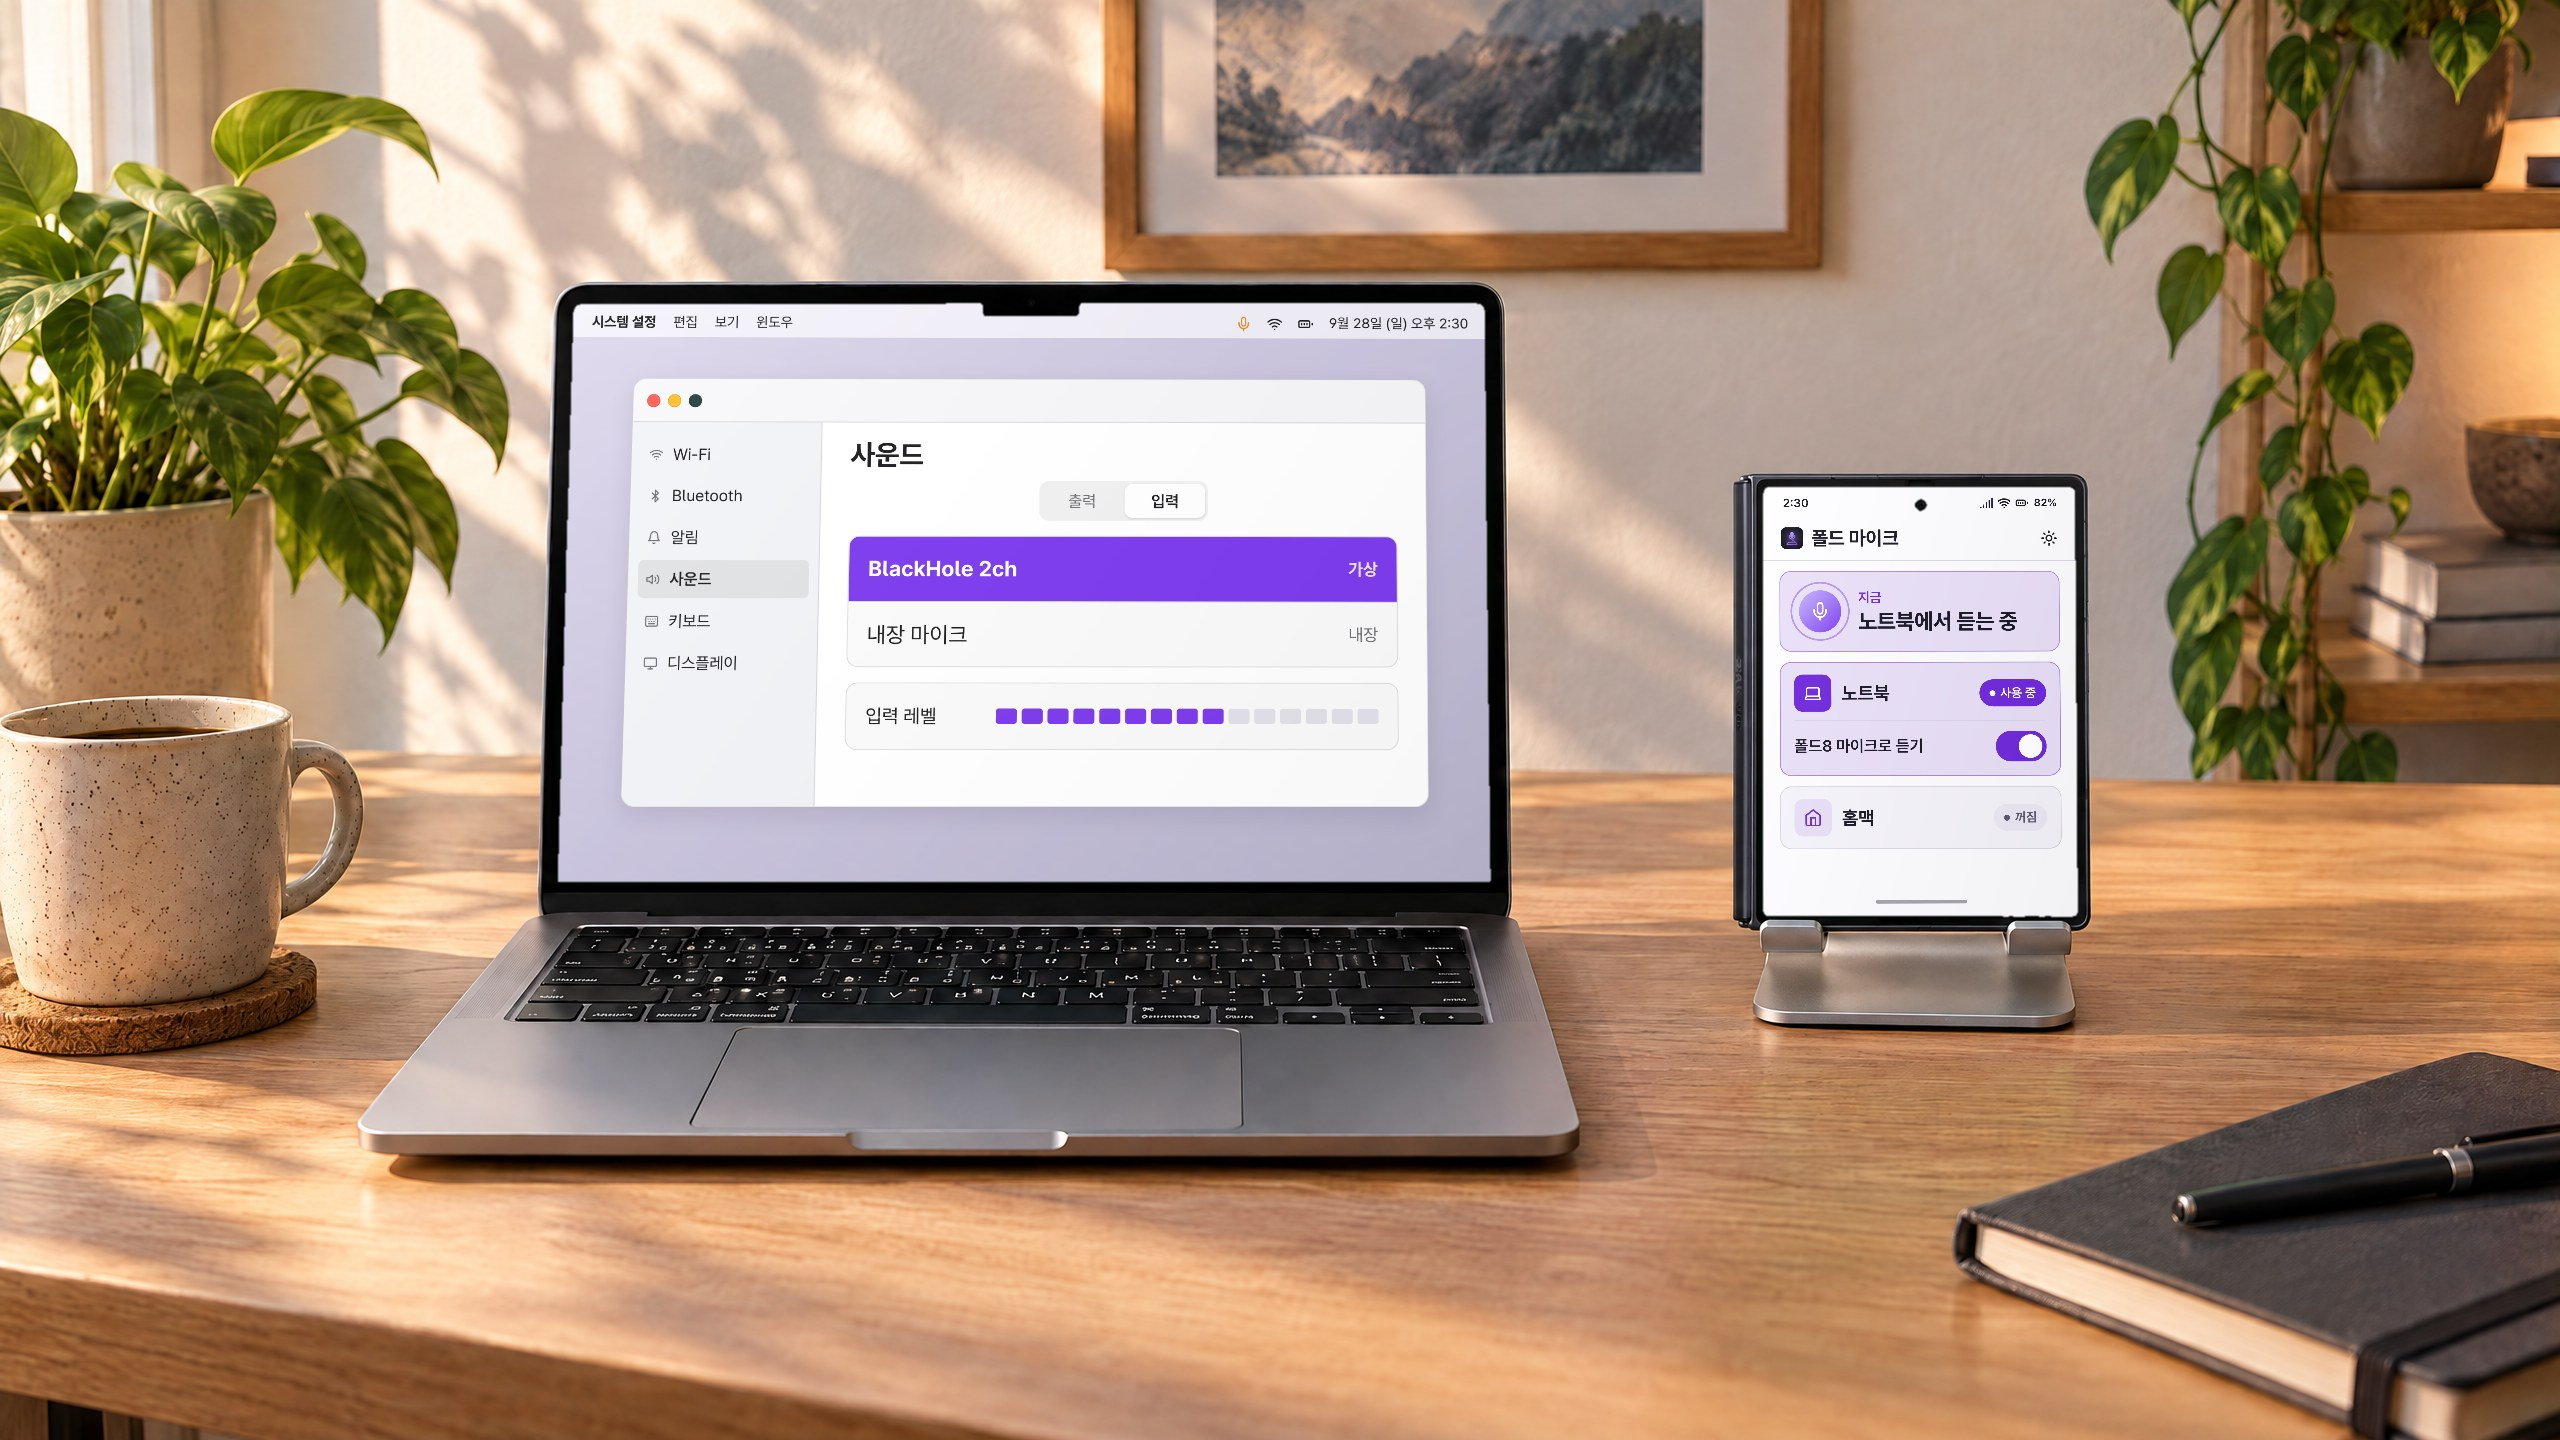
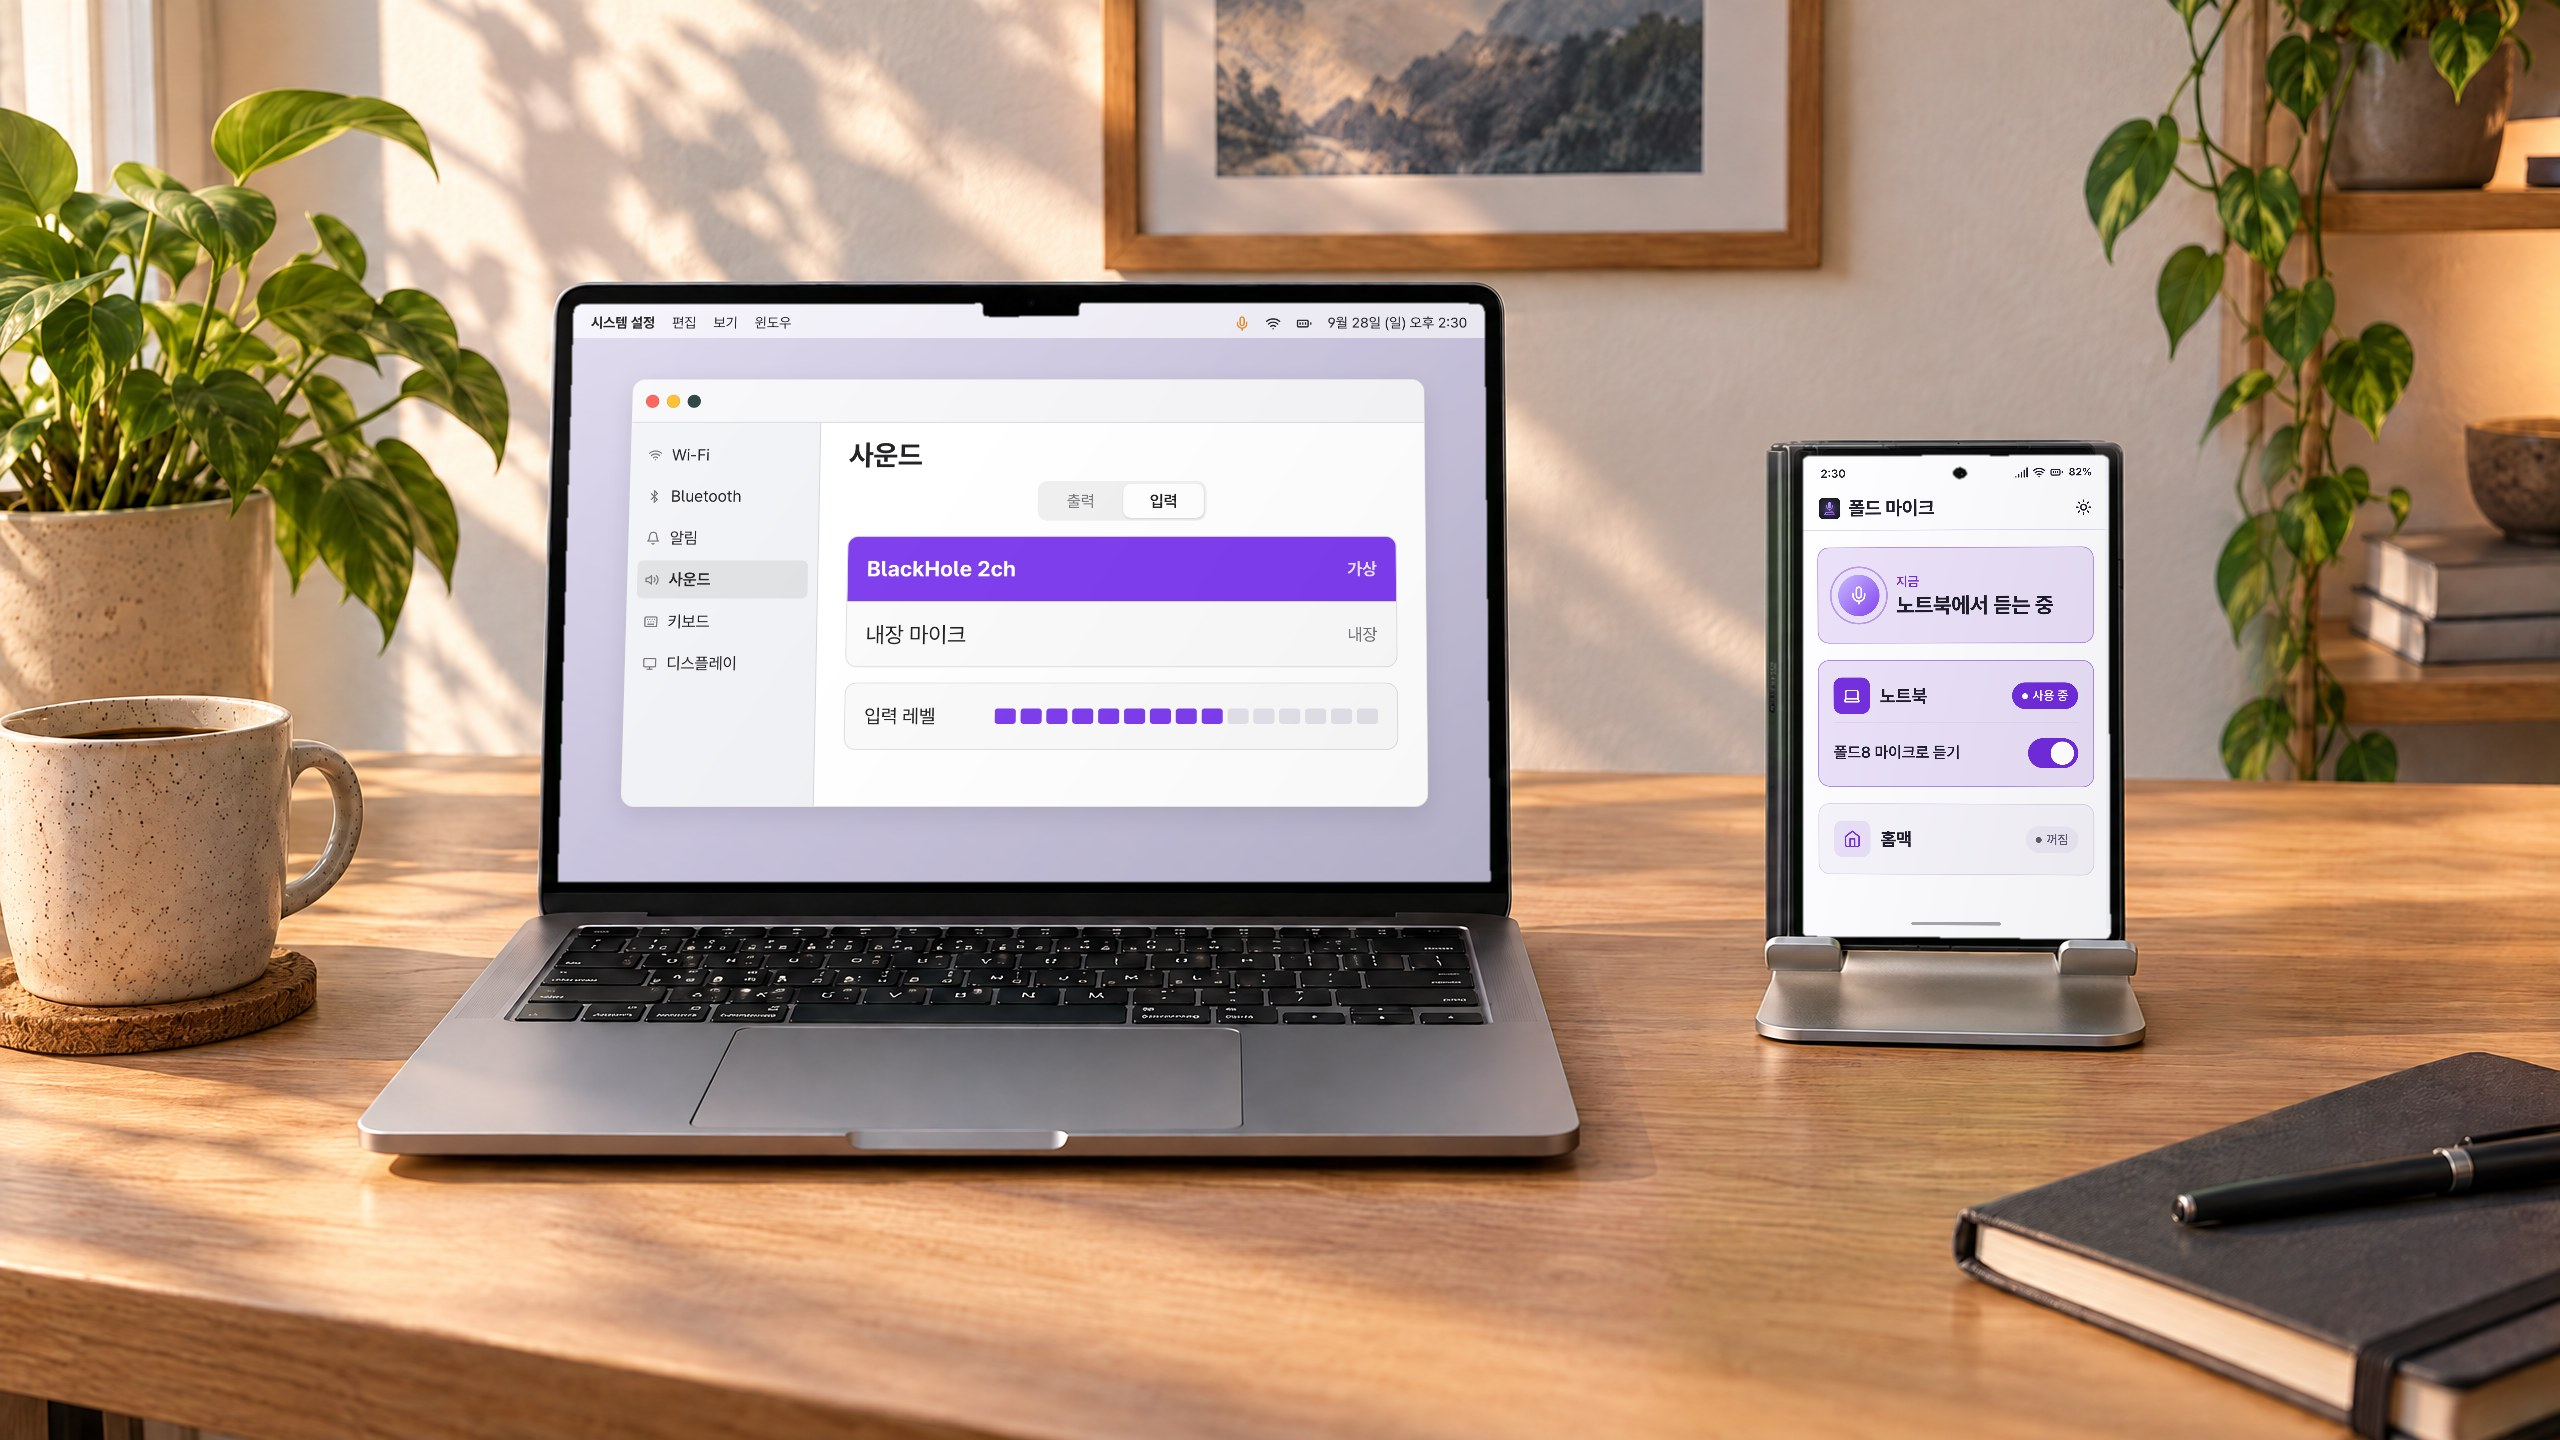
docs: re-render mockups at real Galaxy Z Fold8 ratios

diff --git a/docs/mockups/hero.html b/docs/mockups/hero.html
@@ -6,8 +6,8 @@
 <script src="https://mockup-kit.invalid/kit.js"></script>
 <link rel="stylesheet" href="_app.css">
 <style>
-  .layout { position:absolute; top:40px; left:0; right:0; bottom:0; display:flex; align-items:center; justify-content:center; gap:32px; }
-  .mac-col { width:430px; display:flex; flex-direction:column; gap:18px; }
+  .layout { position:absolute; top:40px; left:0; right:0; bottom:0; display:flex; align-items:center; justify-content:center; gap:28px; }
+  .mac-col { width:400px; display:flex; flex-direction:column; gap:18px; }
   .drop { position:absolute; top:34px; right:120px; width:280px; z-index:25; }
   .snd .mac-body { gap:6px; padding:14px 16px; }
   .dev { display:flex; align-items:center; gap:10px; height:34px; padding:0 10px; border-radius:8px; font-size:13.5px; }
@@ -16,7 +16,8 @@
   .meter { display:flex; gap:3px; margin-top:4px; } .meter i { flex:1; height:8px; border-radius:2px; background: light-dark(#E2E0E8,#2E2A3B); }
   .meter i.f { background:#7C3AED; }
   .sub { font-size:12px; color:var(--mac-dim); }
-  .two .maccard { flex:1; min-width:0; }
+  .two-pane > .pane { gap:10px; padding:14px 16px; }
+  .two-pane .howopen { margin-top:0; }
 </style>
 </head><body>
 <div class="canvas app-foldmic desk-accent">
@@ -41,7 +42,7 @@
   <div class="layout">
     <!-- 펼침 -->
     <div>
-      <div class="fold-open" style="--zoom:.74">
+      <div class="fold-open" style="--zoom:.7">
         <div class="screen">
           <div class="status-bar" data-time="2:30"></div>
           <div class="app-bar">
@@ -50,14 +51,24 @@
             <span class="spacer"></span>
             <span class="theme-btn"><i data-icon="sun"></i><span>자동</span></span>
           </div>
-          <div class="content" style="gap:12px">
+          <div class="two-pane">
+            <div class="pane">
             <div class="now live">
               <div class="bigmic live"><div class="core"><i data-icon="mic"></i></div></div>
               <div class="grow"><div class="k">지금</div><div class="h">노트북에서 듣는 중</div><div class="s">폰 마이크가 열려 있어요. 다 쓰면 꺼 주세요.</div></div>
             </div>
+                        <div class="howopen">
+              <div class="top">어떻게 동작하나요?<i data-icon="chevron-down"></i></div>
+              <div class="step"><span class="n">1</span><span>켜면 맥이 무선 디버깅(adb)으로 이 폰의 마이크 소리를 받아 가상 장치 BlackHole 2ch 로 흘리고, 맥의 기본 입력을 그 장치로 바꿔요.</span></div>
+              <div class="step"><span class="n">2</span><span>그래서 Zoom·받아쓰기 같은 그 맥의 모든 앱이 폰 마이크로 들어요. 두 맥을 동시에 켜도 돼요.</span></div>
+              <div class="step"><span class="n">3</span><span>끄면 바꾸기 직전에 쓰던 입력으로 돌아가요. 폰 연결이 끊겨도 맥이 알아서 원래 마이크로 돌아가요.</span></div>
+              <div class="step"><span class="n">4</span><span>폰은 Tailscale 로 각 맥의 foldmicd 에 닿아요. 켜 두는 동안 폰 마이크는 계속 열려 있어요.</span></div>
+            </div>
+            <div class="build">빌드 09-28 14:02</div>
+            </div>
+            <div class="pane">
             <div class="lbl">연결할 맥</div>
-            <div class="row two" style="align-items:flex-start; gap:12px">
-              <div class="maccard on">
+            <div class="maccard on">
                 <div class="hd"><div class="tile"><i data-icon="laptop"></i></div>
                   <div class="grow"><div class="nm">노트북</div><div class="hs">my-laptop · 방금 확인</div></div>
                   <span class="pl on"><span class="d"></span>사용 중</span></div>
@@ -74,15 +85,8 @@
                 <div class="swrow"><div class="grow"><div class="a">폴드8 마이크로 듣기</div><div class="b">켜면 3~5초 안에 이 맥의 입력이 바뀌어요</div></div><span class="switch"></span></div>
                 <div class="info"><i data-icon="mic"></i><span class="l">맥 기본 입력</span><span class="v">내장 마이크</span></div>
               </div>
+            
             </div>
-            <div class="howopen">
-              <div class="top">어떻게 동작하나요?<i data-icon="chevron-down"></i></div>
-              <div class="step"><span class="n">1</span><span>켜면 맥이 무선 디버깅(adb)으로 이 폰의 마이크 소리를 받아 가상 장치 BlackHole 2ch 로 흘리고, 맥의 기본 입력을 그 장치로 바꿔요.</span></div>
-              <div class="step"><span class="n">2</span><span>그래서 Zoom·받아쓰기 같은 그 맥의 모든 앱이 폰 마이크로 들어요. 두 맥을 동시에 켜도 돼요.</span></div>
-              <div class="step"><span class="n">3</span><span>끄면 바꾸기 직전에 쓰던 입력으로 돌아가요. 폰 연결이 끊겨도 맥이 알아서 원래 마이크로 돌아가요.</span></div>
-              <div class="step"><span class="n">4</span><span>폰은 Tailscale 로 각 맥의 foldmicd 에 닿아요. 켜 두는 동안 폰 마이크는 계속 열려 있어요.</span></div>
-            </div>
-            <div class="build">빌드 09-28 14:02</div>
           </div>
           <div class="nav-handle"></div>
         </div>
@@ -92,7 +96,7 @@
 
     <!-- 커버 -->
     <div>
-      <div class="fold-cover" style="--zoom:.74">
+      <div class="fold-cover" style="--zoom:.7">
         <div class="screen">
           <div class="status-bar" data-time="2:30"></div>
           <div class="app-bar">
@@ -101,7 +105,7 @@
             <span class="spacer"></span>
             <span class="theme-btn"><i data-icon="sun"></i></span>
           </div>
-          <div class="content" style="gap:10px">
+          <div class="content" style="gap:14px">
             <div class="now live">
               <div class="bigmic live"><div class="core"><i data-icon="mic"></i></div></div>
               <div class="grow"><div class="k">지금</div><div class="h">노트북에서 듣는 중</div></div>

diff --git a/docs/mockups/thumbnail.html b/docs/mockups/thumbnail.html
@@ -12,7 +12,10 @@
   .lefty .one { font-size:30px; line-height:40px; font-weight:700; }
   .lefty .sub { font-size:19px; line-height:30px; color:var(--mac-dim); }
   .chips2 { display:flex; gap:10px; flex-wrap:wrap; margin-top:6px; }
-  .r { position:absolute; right:110px; top:0; bottom:0; display:flex; align-items:center; }
+  .r { position:absolute; right:200px; top:0; bottom:0; display:flex; align-items:center; }
+  .fold-cover .content { padding-top:10px; padding-bottom:10px; }
+  .fold-cover .swrow { min-height:0; padding:10px 0 4px; }
+  .fold-cover .howopen .top { height:44px; }
 </style>
 </head><body>
 <div class="canvas thumb app-foldmic desk-accent">
@@ -28,8 +31,8 @@
       <div class="screen">
         <div class="status-bar" data-time="2:30"></div>
         <div class="app-bar"><img class="mark" data-app="foldmic" alt=""><span class="title">폴드 마이크</span><span class="spacer"></span><span class="theme-btn"><i data-icon="sun"></i></span></div>
-        <div class="content" style="gap:10px">
-          <div class="now live"><div class="bigmic live"><div class="core"><i data-icon="mic"></i></div></div>
+        <div class="content" style="gap:8px">
+          <div class="now compact live"><div class="bigmic live"><div class="core"><i data-icon="mic"></i></div></div>
             <div class="grow"><div class="k">지금</div><div class="h">홈맥에서 듣는 중</div><div class="s">폰 마이크가 열려 있어요.</div></div></div>
           <div class="lbl">연결할 맥</div>
           <div class="maccard"><div class="hd"><div class="tile"><i data-icon="laptop"></i></div><div class="grow"><div class="nm">노트북</div><div class="hs">my-laptop</div></div><span class="pl"><span class="d"></span>꺼짐</span></div><div class="sep"></div>

diff --git a/docs/mockups/scenes/03-dictation-phone.html b/docs/mockups/scenes/03-dictation-phone.html
@@ -1,16 +1,16 @@
 <!doctype html>
 <html lang="ko" class="dark"><head><meta charset="utf-8">
-<!-- 배경 G_close_cover 의 커버 화면 영역(0.72) · 다크 테마 -->
-<meta name="shot" content="w=380,h=528,scale=3.41">
+<!-- 배경 G_close_cover 의 커버 화면 영역(0.63) · 다크 테마 -->
+<meta name="shot" content="w=380,h=603,scale=3.0">
 <link rel="stylesheet" href="https://mockup-kit.invalid/kit.css">
 <script src="https://mockup-kit.invalid/kit.js"></script>
 <link rel="stylesheet" href="../_app.css">
 <link rel="stylesheet" href="_scene.css">
 <style>
-  .phone .screen > .content { gap:10px; padding-top:10px; }
-  .phone .now { flex-direction:column; align-items:flex-start; gap:6px; padding:14px 16px; }
+  .phone .screen > .content { gap:18px; padding-top:18px; }
+  .phone .now { flex-direction:column; align-items:flex-start; gap:8px; padding:20px 16px; }
   .phone .bigmic { width:54px; height:54px; } .phone .bigmic .core { width:44px; height:44px; }
-  .phone .maccard { padding:12px 16px; }
+  .phone .maccard { padding:18px 16px; }
   .phone .now .h { font-size:28px; line-height:34px; }
   .phone .now .s { font-size:17px; line-height:24px; }
 </style>

diff --git a/docs/mockups/scenes/03-dictation-mac.html b/docs/mockups/scenes/03-dictation-mac.html
@@ -1,13 +1,13 @@
 <!doctype html>
 <html lang="ko"><head><meta charset="utf-8">
-<!-- 배경 G_close_cover 의 맥 화면 영역(1.39) -->
-<meta name="shot" content="w=860,h=619,scale=2.093">
+<!-- 배경 G_close_cover 의 맥 화면 영역(1.24) -->
+<meta name="shot" content="w=770,h=621,scale=2.338">
 <link rel="stylesheet" href="https://mockup-kit.invalid/kit.css">
 <script src="https://mockup-kit.invalid/kit.js"></script>
 <link rel="stylesheet" href="../_app.css">
 <link rel="stylesheet" href="_scene.css">
 <style>
-  .note { left:150px; top:56px; width:680px; height:530px; }
+  .note { left:70px; top:56px; width:680px; height:530px; }
   .note .mac-body { padding:26px 34px; gap:14px; }
   .note .date { font-size:17px; color:var(--mac-dim); text-align:center; }
   .note h1 { margin:0; font-size:34px; line-height:44px; font-weight:700; }

diff --git a/docs/mockups/scenes/01-switch-phone.html b/docs/mockups/scenes/01-switch-phone.html
@@ -1,11 +1,17 @@
 <!doctype html>
 <html lang="ko"><head><meta charset="utf-8">
-<!-- 배경 C_folded_cover 의 커버 화면 영역(0.72) -->
-<meta name="shot" content="w=360,h=500,scale=3.6">
+<!-- 배경 C_folded_cover 의 커버 화면 영역(0.63) -->
+<meta name="shot" content="w=360,h=571,scale=3.16">
 <link rel="stylesheet" href="https://mockup-kit.invalid/kit.css">
 <script src="https://mockup-kit.invalid/kit.js"></script>
 <link rel="stylesheet" href="../_app.css">
 <link rel="stylesheet" href="_scene.css">
+<style>
+  .phone .screen > .content { gap:20px; padding-top:20px; }
+  .phone .now { padding:26px 18px; }
+  .phone .maccard { padding:20px 18px; }
+  .phone .swrow { padding-top:18px; }
+</style>
 </head><body>
 <div class="phone app-foldmic light"><div class="screen">
   <div class="status-bar" data-time="2:30"></div>
